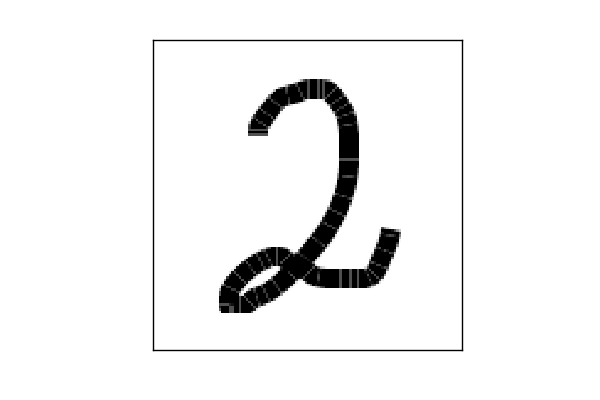
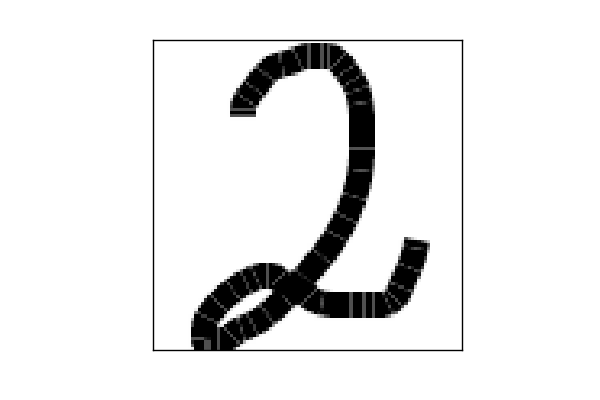
Center images on pixel center of mass

Changed region(s): [[0.3, 0.09, 0.72, 0.9]]

diff --git a/digitre/digitre_preprocessing.py b/digitre/digitre_preprocessing.py
@@ -132,19 +132,37 @@ def center_img(img_ndarray):
     row_diff = com[0] - center
     col_diff = com[1] - center
 
-    rows = np.zeros((abs(int(row_diff)), len(img_ndarray)))
+    rows = np.zeros((abs(int(row_diff)), img_ndarray.shape[1]))
     if row_diff > 0:
         img_ndarray = np.vstack((img_ndarray, rows))
     else:
         img_ndarray = np.vstack((rows, img_ndarray))
 
-    cols = np.zeros((len(img_ndarray), abs(int(col_diff))))
+    cols = np.zeros((img_ndarray.shape[0], abs(int(col_diff))))
     if col_diff > 0:
         img_ndarray = np.hstack((img_ndarray, cols))
     else:
         img_ndarray = np.hstack((cols, img_ndarray))
 
-    # TODO: Make image square again!!!
+    # Make image square again (add zero rows to the smaller dimension)
+    dim_diff = img_ndarray.shape[0] - img_ndarray.shape[1]
+    half_A = half_B = int(dim_diff / 2)
+
+    if dim_diff % 2 != 0:
+        half_B += 1
+
+    # Add half to each side (to keep center of mass)
+    if dim_diff > 0:
+        half_A = np.zeros((img_ndarray.shape[0], abs(int(half_A))))
+        half_B = np.zeros((img_ndarray.shape[0], abs(int(half_B))))
+        img_ndarray = np.hstack((img_ndarray, half_A))
+        img_ndarray = np.hstack((half_B, img_ndarray))
+    else:
+        half_A = np.zeros((abs(int(half_A)), img_ndarray.shape[1]))
+        half_B = np.zeros((abs(int(half_B)), img_ndarray.shape[1]))
+        img_ndarray = np.vstack((img_ndarray, half_A))
+        img_ndarray = np.vstack((half_B, img_ndarray))
+
     # Add padding all around (15px of zeros)
     return np.lib.pad(img_ndarray, 15, 'constant', constant_values=(0))
 
